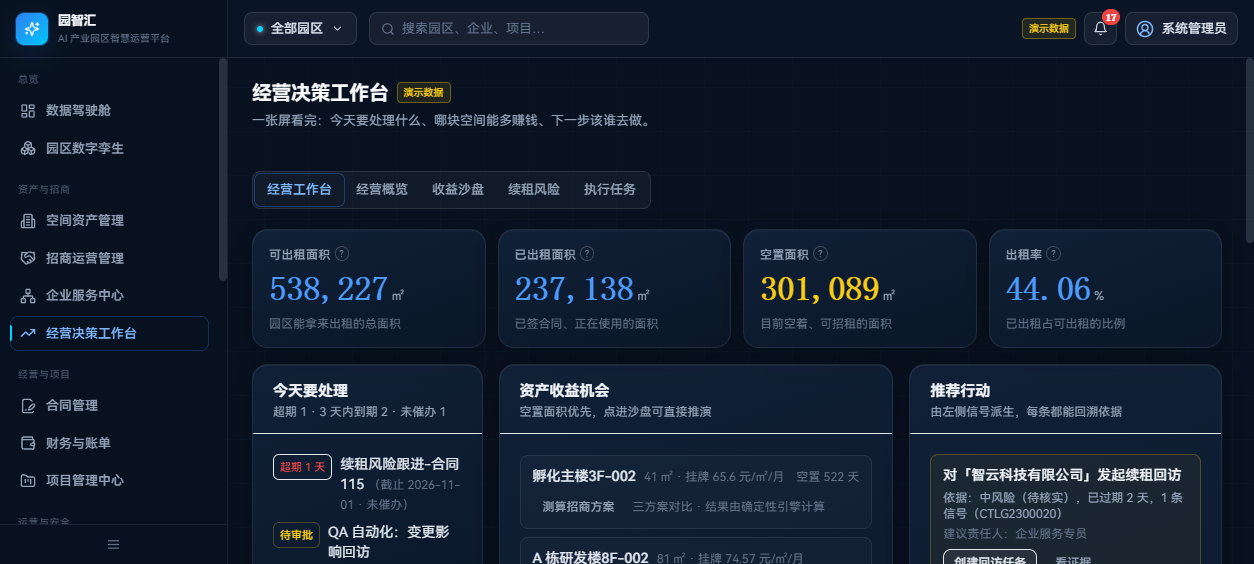
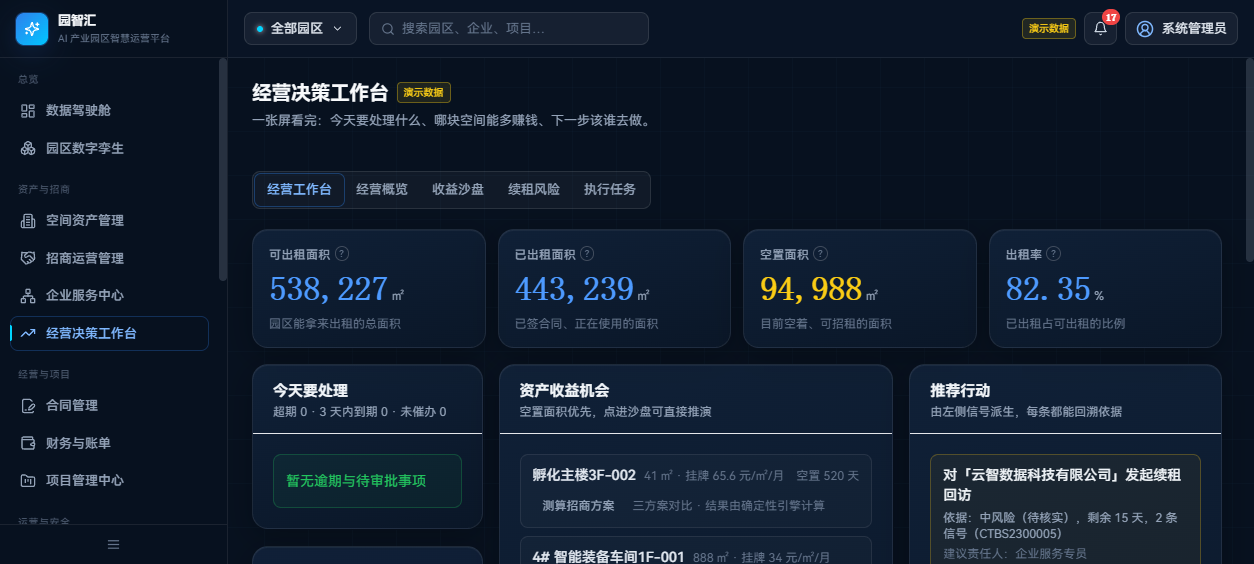
fix(seed): 演示数据出租率从 44% 调整到 82%，贴近真实园区
原分配逻辑是「每家企业随机拿 1~4 间」，344 家企业只能覆盖 1457 间里的 494 间，
算出来的出租率只有 44%。真实产业园区普遍在 85~95%，44% 的园区在视频里会被
读成「快撑不住了」，直接削弱演示可信度。

改为按园区可出租面积设 82% 目标：第一轮分配主力用房，之后按轮次把剩余空间
作为扩租分给已有企业，直到面积达标；剩余留作空置/洽谈中。

调整后
- 出租率 82.35%（443,239 / 538,227 ㎡），空置 94,988 ㎡
- 可推演空置空间仍有 273 间、续租风险 43 条，招商与风险场景照样能演示
- 合同 249 份，最大单合同 7,206 ㎡，量级合理

回归全绿：smoke 92/0、check_fields 141 路径 0 问题、check_permissions 0/0、
check_tools 25/0、check_intent 50/50、check_operating 33/33、
check_change_impact 30/30、qa_suite 61/0。

同时同步 docs/演示脚本.md 里的出租率数字。

diff --git a/backend/app/seed/seed_data.py b/backend/app/seed/seed_data.py
@@ -38,6 +38,10 @@ from app.seed.reference import (
 )
 
 random.seed(20260917)
+
+#: 演示园区的目标出租率（按可出租面积）。真实产业园区普遍 85~95%，
+#: 取 82% 既贴近现实，又给招商/深陷空置的场景留出约 18% 的空置面积。
+TARGET_OCCUPANCY = 0.82
 TODAY = dt.date.today()
 NOW = dt.datetime.now()
 LABEL = "演示数据"
@@ -506,35 +510,73 @@ def seed_enterprises(db: Session, parks: list) -> list:
 
 def assign_spaces(db: Session, parks: list, enterprises: list,
                   park_spaces: dict) -> None:
+    """把空间分配给入驻企业，并让整体出租率落在真实园区区间。
+
+    为什么改成"按面积目标分配"：原先每家企业只随机拿 1~4 间，344 家企业只能覆盖
+    1457 间里的 494 间，算出来的出租率只有 44%——真实产业园区普遍在 85~95%，
+    44% 的园区在观众眼里是"快撑不住了"，会直接削弱演示可信度。
+
+    现在按园区可出租面积设 82% 的目标：第一轮给每家企业分配主力用房，之后
+    按轮次把剩余空间作为"扩租"分给已有企业，直到面积达标；剩余部分留作空置/洽谈中，
+    既符合真实园区，又给招商沙盘和续租风险留下可演示的素材。
+    """
     by_park: dict = {}
     for e in enterprises:
         by_park.setdefault(e.park_id, []).append(e)
 
     for park in parks:
-        ents = by_park.get(park.id, [])
+        ents = [e for e in by_park.get(park.id, [])
+                if e.status in ("SETTLED", "GROWING")]
         spaces = list(park_spaces.get(park.id, []))
         random.shuffle(spaces)
+        rentable_total = sum(sp.rentable_area or 0 for sp in spaces)
+        target_area = rentable_total * TARGET_OCCUPANCY
+
+        def _assign(sp, e) -> None:
+            sp.enterprise_id = e.id
+            sp.status = "RENTED"
+            sp.leasing_status = "LEASED"
+            sp.vacant_since = None
+            sp.lease_start = e.settle_date
+            sp.lease_end = d(random.randint(60, 1500))
+            e.leased_area = round((e.leased_area or 0) + (sp.area or 0), 2)
+
         idx = 0
+        rented_area = 0.0
+
+        # 第一轮：每家企业拿 1~4 间主力用房
         for e in ents:
-            if e.status not in ("SETTLED", "GROWING"):
-                continue
-            take = random.choices([1, 1, 1, 2, 2, 3, 4], k=1)[0]
-            if idx + take > len(spaces):
+            if idx >= len(spaces):
                 break
-            assigned = spaces[idx:idx + take]
-            idx += take
-            for sp in assigned:
-                sp.enterprise_id = e.id
-                sp.status = "RENTED"
-                sp.leasing_status = "LEASED"
-                sp.vacant_since = None
-                sp.lease_start = e.settle_date
-                sp.lease_end = d(random.randint(60, 1500))
-            e.leased_area = round(sum(x.area for x in assigned), 2)
-        for sp in spaces[idx:idx + max(3, len(spaces) // 12)]:
+            take = random.choices([1, 1, 1, 2, 2, 3, 4], k=1)[0]
+            for sp in spaces[idx:idx + take]:
+                _assign(sp, e)
+                rented_area += sp.rentable_area or 0
+            idx += min(take, len(spaces) - idx)
+
+        # 后续轮次：按面积目标补足，剩余空间作为扩租分给已有企业
+        while rented_area < target_area and idx < len(spaces) and ents:
+            progressed = False
+            for e in ents:
+                if idx >= len(spaces) or rented_area >= target_area:
+                    break
+                sp = spaces[idx]
+                idx += 1
+                _assign(sp, e)
+                rented_area += sp.rentable_area or 0
+                progressed = True
+            if not progressed:
+                break
+
+        # 尾巴上的少量空间留作"洽谈中"，其余为空置
+        for sp in spaces[idx:idx + max(3, len(spaces) // 20)]:
             if sp.enterprise_id is None:
                 sp.leasing_status = "NEGOTIATING"
                 sp.status = "RESERVED"
+        for sp in spaces:
+            if sp.enterprise_id is None and sp.status != "RESERVED":
+                sp.status = "AVAILABLE"
+                sp.leasing_status = "AVAILABLE"
     db.flush()
 
 

diff --git a/docs/演示脚本.md b/docs/演示脚本.md
@@ -14,7 +14,7 @@
 进入即见 18 项核心 KPI。挑三个指标点开悬浮说明（`basis`），
 说明**每个数字都能追溯到计算口径**，不是写死的示例值：
 
-- **空间出租率 44.06%** → 已出租面积 237,138 ㎡ ÷ 可租面积 538,227 ㎡
+- **空间出租率 82.35%** → 已出租面积 443,239 ㎡ ÷ 可租面积 538,227 ㎡（调整后贴近真实园区水平）
 - **租金收缴率 93.19%** → 已到期应收 602,386,673 元中实收 561,376,607 元
 - **本月园区总能耗 52,771,077 kWh** → 本月电耗合计，同比 +1.66%
 
